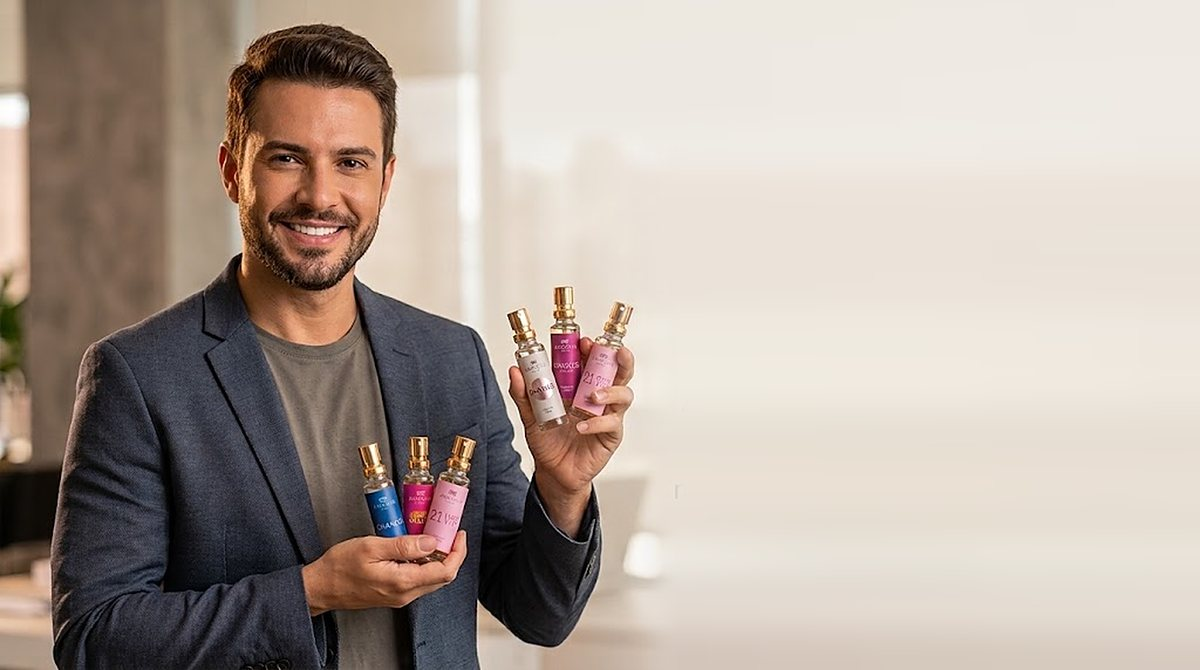
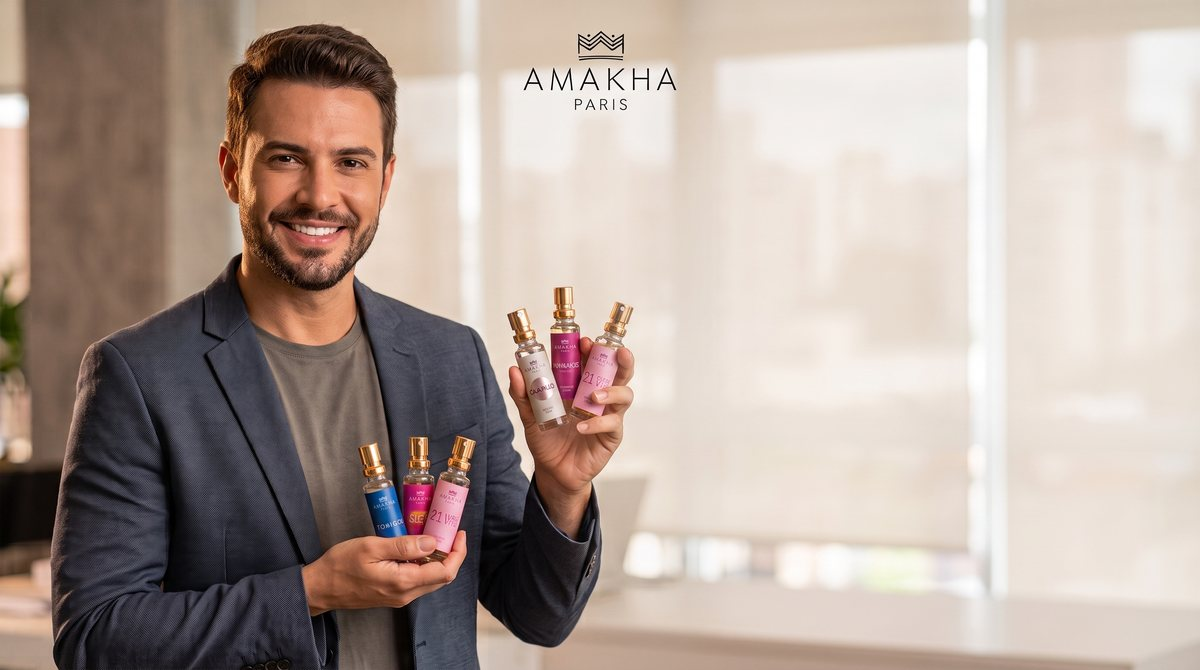
Foto HD no slide do consultor

diff --git a/src/components/ConviteConsultor.tsx b/src/components/ConviteConsultor.tsx
@@ -8,11 +8,11 @@ export default function ConviteConsultor() {
       <div className="convite-foto">
         <img
           src="/consultor.jpg"
-          srcSet="/consultor-1200.jpg 1200w, /consultor.jpg 2048w"
+          srcSet="/consultor-1200.jpg 1200w, /consultor-1920.jpg 1920w, /consultor.jpg 2752w"
           sizes="100vw"
           alt="Consultor Amakha Paris segurando perfumes de bolso"
-          width={2048}
-          height={1144}
+          width={2752}
+          height={1536}
           decoding="async"
         />
       </div>
